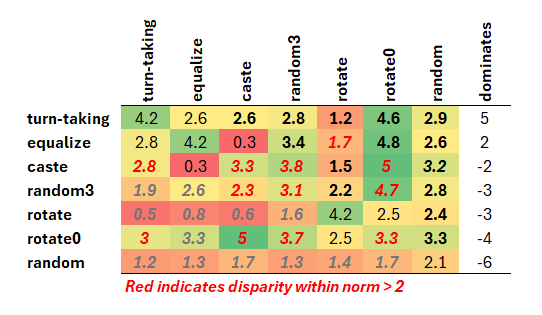
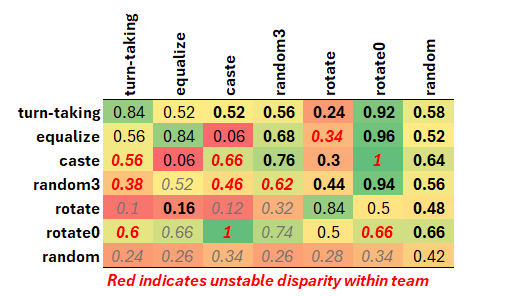
nomalize mixes

diff --git a/README.md b/README.md
@@ -13,12 +13,12 @@ In `GroupPlayers`, it can be useful to adjust these constants:
 * `PLAYERS_PER_GROUP` (default `5`): The number of players (should be at least 5 for four buttons)
 * `WAIT_LIMIT` (default `1200`): Maximum seconds in the wait room before a player is automatically advanced to the alternate ending
 * `ROBOTS` (default `None`): Specifies which players to replace with robots of which kinds. For example `{2: "A"}` would replace Player2 with a robot that always selects "A". `"default"` refers to al players not otherwise named, so `{"default": "A", 2: None, 3: "B"}` would replace Player3 with a robot that always selects "B", would leave Player2 human, and replace all other players with robot that always select "A". If ROBOTS is not specified as a dictionary, then it is assumed to be specifying a default, so `"A"` is equivalent to `{"default": "A"}`. If all players are replaced with robots, then a simulation will be triggered as soon as any player hits the waiting room (so it can be handy to combine such settings with `SKIP_PREGAME = True`). 
-  * `{turntaking}` will be replaced by selections that reserve a unique button for each player with *lowest* debt as described [here](https://arxiv.org/abs/2503.20986). If a positive integer N is appended (e.g. `{turntaking1}`) it will be relaced by the turn-taking selection of the player with ID N greater.
-  * `{caste}` will be replaced by selections that reserve a unique button for each player with *highest* debt as described [here](https://arxiv.org/abs/2503.20986). If a positive integer N is appended (e.g. `{caste1}`) it will be relaced by the caste selection of the player with ID N greater.
-  * `{equalize}` will be replaced by selections that reserve a unique button for each of the *poorest* players. If a positive integer N is appended (e.g. `{equalize1}`) it will be relaced by the equalize selection of the player with ID N greater.
+  * `{turntaking}` will be replaced by selections that reserve a unique button for each player with *lowest* debt as described [here](https://arxiv.org/abs/2503.20986). 
+  * `{caste}` will be replaced by selections that reserve a unique button for each player with *highest* debt as described [here](https://arxiv.org/abs/2503.20986). 
+  * `{equalize}` will be replaced by selections that reserve a unique button for each of the *poorest* players. 
   * `{rotate}` will be replaced by the initial caste selections rotated N positions per round. If no positive integer N is appended (e.g. `{rotate1}`), then N is assumed to be 1.
   * `{random}` will be replaced by a random valid selection. If an integer N > 0 is appended (e.g. `{random1}`), and the player lost the last round, then it will have 1/N probability of shifting to a random button not selected in the previous round (or selected only once, if all buttons were selected); otherwise the selection will repeat. 
-  * `{obey}` will be replaced by whatever advice was given to that robot (see ADVICE below). If a positive integer N is appended (e.g. `{obey1}`) it will be relaced by the advice assigned to the player with ID N greater.
+  * `{obey}` will be replaced by whatever advice was given to that robot (see ADVICE below). If a positive integer N is appended (e.g. `{obey1}`) it will be relaced by the advice assigned to the player with N higher ID.
   * Invalid selections will be relaced with random valid selections.
 
 To specify different selections for different rounds, specify a sequence of selections through which to cycle like `("A", "B", "C")` or use an inner-dictionary to specify the round number in which to switch to a selection like `{4: {4: "B"}}`, which would be equivalent to `{4: ("{obey}", "{obey}", "{obey}", "B", "B", B", "B",`... When using an inner-dictionary, there must be an outer dictionary (which may require specifying `"default"`), and `"{obey}"` will be assumed for round 1 if no other selection is specified. As examples, `{3: {3: "D", 4: "D", 5: "{obey}"}, "default": "{obey}"}` was used to run the following experiments with advice of `"{rotate}"`, `"{caste}"`, `"{equalize}"`, and `"{turntaking}"` to see the consequences of deviating from different kinds of advice:
@@ -27,11 +27,11 @@ To specify different selections for different rounds, specify a sequence of sele
 
 To deviate from `"{rotate}"` results in losses for the deviant and victims of collision. To deviate from `"{caste}"` also results in losses for the deviant and victims, and the deviant shifts to the bottom caste (a potentially endless loss). The losses dues to deviation from `"{equalize}"` are shared by the entire population (leaving no incentive against deviation). To deviate from `"{turntaking}"` results in losses for the deviant, and remaining losses are shared by the entire population. `"{turntaking}"` is the only norm the penalizes players who deviate when assigned to skip. 
 
-The following table shows the average accumulated bonus in competitions between norms where each norm was represented by a team of 3 bots, and there five buttons. The odd players played the norm named in the row. Italic numbers represent situations in which players had incentive to defect either because they were suppressed by their teammates (red) or achieved significantly lower bonuses than their opponents. The last column indicates the number of other norms in this comparison that would defect to it. 
+The following table shows the average % of maximum bonus accumulated in a team of three bots competing for five buttons against another team of three bots that occupied the even slots and played as specified in the column label. Italic numbers represent situations in which players had incentive to defect either because they were suppressed by their teammates (red) or achieved significantly lower bonuses than their opponents.  
 
 ![Comparing norms by mixing equal populations](https://github.com/ChrisSantosLang/MADChairs/blob/main/Media/mixes.png?raw=true)
 
-`"{turntaking}"` would dominate any norm other than `"{equalize}"`;  `"{equalize}"` would dominate any norm other than `"{turntaking}"` or `"{caste}"` (although it becomes unstable against `"{rotate0}"`); `"{caste}"`, `"{random3}"`,  and `"{rotate0}"` are all very unstable due to internal inequity, but `"{caste}"` dominates `"{random3}"` and `"{random3}"` dominates `"{rotate0}"`; `"{rotate}"` ids dominated by the same opponents as `"{rotate0}"` but less extremely and performs well against itself; `"{random3}"` is dominated by all other norms in this comparison.
+`"{turntaking}"` dominated every norm other than `"{equalize}"`. `"{equalize}"` dominated `"{random3}"` which dominated `"{rotate}"` which dominated `"{equalize}"`. `"{caste}"`, `"{random3}"`,  and `"{rotate0}"` all proved very unstable due to internal inequity, but `"{caste}"` was the least-often dominated. `"{random}"` was dominated by all other norms in this comparison.
 
 ## Game settings
 In `MADChairs/__init__.py`, it can be useful to adjust the following constants:
